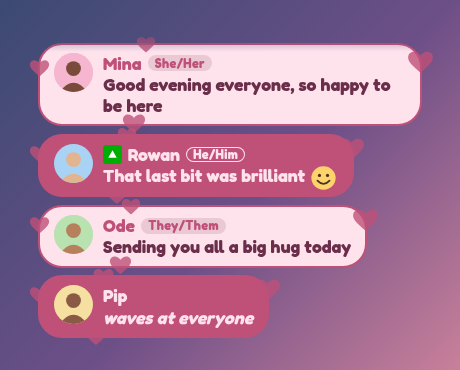
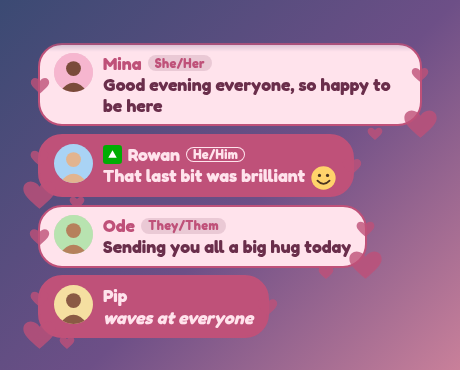
Place bubble decorations at the ends and a corner
A sketch from Jordan showed what round each bubble should look like:
a larger shape on a lower corner and smaller ones at the middle of each
end, rather than spread all the way round. The bubble layout now follows
that, and every other bubble is the mirror image so a column of them
does not look stamped.

diff --git a/overlays/chat-feed/widget/widget.js b/overlays/chat-feed/widget/widget.js
@@ -656,10 +656,20 @@
     body.appendChild(text);
     li.appendChild(body);
     if (cfg.decorBubbles && cfg.decor && cfg.decor.kind !== "none") {
-      // A few on the border of each bubble, half of each outside it; the count is per bubble.
+      // A few on the edge of each bubble, half of each outside it; the count is per bubble.
       var d = {}; for (var k in cfg.decor) { if (cfg.decor.hasOwnProperty(k)) d[k] = cfg.decor[k]; }
       d.place = "border"; d.count = Math.min(d.count, 6);
       applyDecor(d, li, theme.flag || [theme.accent], cfg.animate, theme.text);
+      // Then moved to where they look best on a bubble: a big one on a lower corner, small ones at the middle of each end, and so on.
+      // Every other bubble is the mirror image, so they do not all look stamped.
+      var spots = [[100, 100, 1.5], [0, 52, 0.9], [100, 38, 0.8], [88, 112, 0.7], [2, -4, 0.8], [0, 108, 1], [96, -6, 0.7], [-8, 78, 0.7]];
+      var layer = li.firstChild, flip = m.id % 2 === 1;
+      for (var q = 0; layer && layer.children && q < layer.children.length; q++) {
+        var sp = spots[q % spots.length], dot = layer.children[q];
+        dot.style.setProperty("--x", (flip ? 100 - sp[0] : sp[0]) + "%");
+        dot.style.setProperty("--y", sp[1] + "%");
+        dot.style.setProperty("--s", String(sp[2]));
+      }
     }
     return li;
   }

diff --git a/overlays/chat-feed/test/test-widget.js b/overlays/chat-feed/test/test-widget.js
@@ -348,6 +348,8 @@ const until = async (test, ms) => { for (let i = 0; i < (ms || 2000) / 25 && !te
   ok(rowEls().every(li => deco(li).length === 1 && li.firstChild === deco(li)[0]), "each bubble gets its own layer behind its words");
   ok(deco(rowEls()[0])[0].children.length === 6 && String(deco(rowEls()[0])[0].className).indexOf("outside") !== -1, "capped at six a bubble, on the border with half of each outside");
   ok(deco(E("cf-app")).length === 0 && E("cf-app").classList.contains("decor-bubbles"), "and none on the panel itself");
+  const xOf = li => String(deco(li)[0].children[0].style["--x"]);
+  ok(xOf(rowEls()[0]) !== xOf(rowEls()[1]), "and every other bubble is the mirror image (" + xOf(rowEls()[0]) + " then " + xOf(rowEls()[1]) + ")");
   await load({ bubbleMode: true, decoration: "hearts", decorationOnBubbles: true, decorationCount: 3 });
   say("one", { nick: "u1" }); ok(deco(rowEls()[0])[0].children.length === 3, "fewer when asked for fewer");
   await load({ bubbleMode: true, decoration: "none", decorationOnBubbles: true });

diff --git a/overlays/chat-feed/README.md b/overlays/chat-feed/README.md
@@ -44,7 +44,7 @@ The pictures in these screenshots are drawn examples, not real profiles.
 
 <p><img src="docs/decorations.png" alt="Chat feed with hearts in the Pastel pink preset" width="420"></p>
 
-With bubble mode or the bubbles card style, tick **Put the decorations round each chat bubble** and each bubble gets its own, hanging half outside its edge.
+With bubble mode or the bubbles card style, tick **Put the decorations round each chat bubble** and each bubble gets its own: a larger one on a lower corner and smaller ones at the ends, half outside its edge, mirrored on every other bubble.
 
 <p><img src="docs/decorations-bubbles.png" alt="Chat feed in bubble mode with hearts round each bubble" width="420"></p>
 
